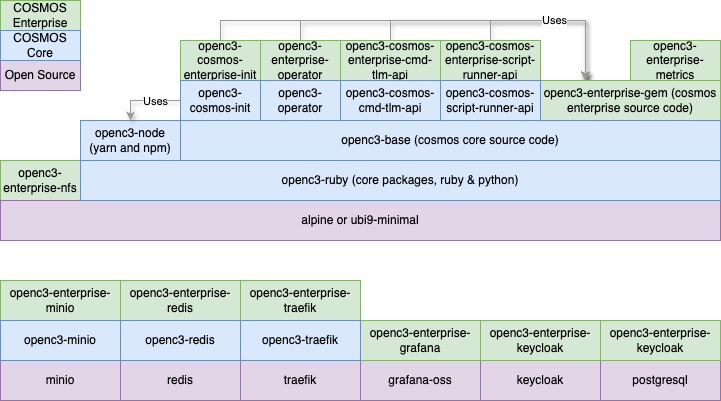
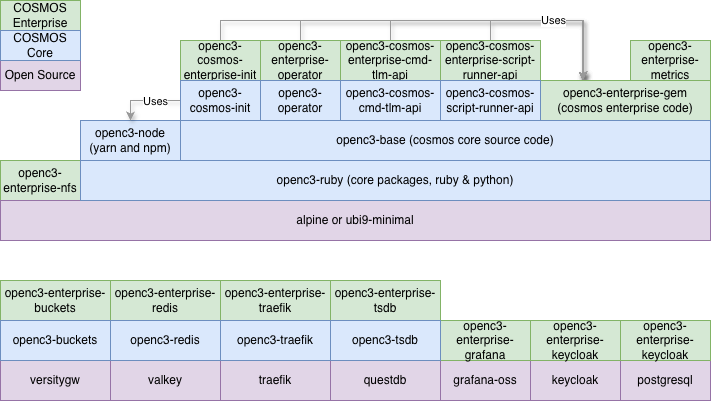
Add new architecture page

diff --git a/docs.openc3.com/docusaurus-plugin.config.js b/docs.openc3.com/docusaurus-plugin.config.js
@@ -135,6 +135,10 @@ const config = {
           { to: "/docs/meta/contributing", from: "/docs/v5/contributing" },
           { to: "/docs/meta/philosophy", from: "/docs/v5/philosophy" },
           { to: "/docs/meta/xtce", from: "/docs/v5/xtce" },
+          {
+            to: "/docs/getting-started/architecture",
+            from: "/docs/getting-started/key-concepts",
+          },
         ],
       },
     ],

diff --git a/docs.openc3.com/docusaurus.config.js b/docs.openc3.com/docusaurus.config.js
@@ -135,6 +135,10 @@ const config = {
           { to: "/docs/meta/contributing", from: "/docs/v5/contributing" },
           { to: "/docs/meta/philosophy", from: "/docs/v5/philosophy" },
           { to: "/docs/meta/xtce", from: "/docs/v5/xtce" },
+          {
+            to: "/docs/getting-started/architecture",
+            from: "/docs/getting-started/key-concepts",
+          },
         ],
       },
     ],

diff --git a/docs.openc3.com/docs/getting-started/architecture.md b/docs.openc3.com/docs/getting-started/architecture.md
@@ -1,12 +1,42 @@
 ---
 sidebar_position: 1
-title: Key Concepts
-description: Projects, Containerization, Frontend, Backend
+title: Architecture
+description: Architecture, Projects, Containerization, Frontend, Backend
 sidebar_custom_props:
-  myEmoji: 💡
+  myEmoji: 🏗
 ---
 
-# OpenC3 COSMOS Key Concepts
+# OpenC3 COSMOS Architecture
+
+## COSMOS Core Architecture
+
+![COSMOS Core Architecture](/img/core-architecture.png)
+
+COSMOS Core is a cloud native, containerized, microservice oriented command and control system deployed with Docker Compose. The **init** container seeds the initial configuration and plugin data into the system on startup. The **operator** manages the lifecycle of all COSMOS microservices including interfaces that connect to external embedded systems (Targets). Two Rails-based APIs power the system: **cmd-tlm-api** provides the REST API for command and telemetry operations, while **script-runner-api** handles script execution. The **traefik** reverse proxy routes all user browser traffic to the appropriate API. Two **Valkey** (Redis) data stores are used: **redis** holds persistent configuration and the current value table, while **redis-ephemeral** handles real-time data streams. The **buckets** service provides S3-compatible object storage (powered by Versitygw) for plugins, targets, configuration data, text logs, and binary logs of all raw data. The time-series database (**tsdb**), powered by [QuestDB](https://questdb.io/), stores all decommutated command and telemetry data for fast historical queries.
+
+## COSMOS Enterprise Architecture
+
+![COSMOS Enterprise Architecture](/img/enterprise-architecture.png)
+
+COSMOS Enterprise extends Core with additional services and is optionally deployed on a Kubernetes cluster using **Helm** charts as shown above. The core services (cmd-tlm-api, script-runner-api, traefik, init, operator) remain the same and are deployed by the **openc3** chart. Data services (tsdb, buckets, redis, redis-ephemeral) are deployed by a separate **openc3-db** chart. Enterprise adds **Keycloak** for full identity and access management with role-based permissions, backed by a **PostgreSQL** database. A **Grafana** instance and **metrics** collector provide system monitoring and observability dashboards. The **COSMOS NFS** chart provides shared network file storage across the cluster. All services are orchestrated by Kubernetes, enabling horizontal scaling, high availability, and production-grade deployment.
+
+## Terminology
+
+| Term                                        | Definition                                                                                                                                                                                                                        |
+| ------------------------------------------- | --------------------------------------------------------------------------------------------------------------------------------------------------------------------------------------------------------------------------------- |
+| [Target](/docs/configuration/target)        | A COSMOS target is an embedded system that the COSMOS Command and Telemetry Server connects to using an interface in order to send commands to and/or receive telemetry from.                                                     |
+| [Command](/docs/configuration/command)      | A packet of information telling a target to perform an action of some sort.                                                                                                                                                       |
+| [Telemetry](/docs/configuration/telemetry)  | A packet of information providing status from a target.                                                                                                                                                                           |
+| [Interface](/docs/configuration/interfaces) | A physical connection to a target that sends commands to and/or receives telemetry from a target. COSMOS comes with interfaces that support TCP/IP, UDP, and serial connections. Custom interfaces are easy to add to the system. |
+| [Configuration Files](/docs/configuration)  | COSMOS uses simple plain text configuration files to define commands and telemetry packets, and to configure each COSMOS application. These files are easily human readable/editable and machine readable/editable.               |
+| [Tool](/docs/tools)                         | Another name for a COSMOS application.                                                                                                                                                                                            |
+
+Key aspects of this architecture:
+
+- COSMOS can connect to many different kinds of targets. The examples include things like Flight software (FSW), Ground Support Equipment (GSE), Labview, and COTS targets such as an Agilent power supply. Any embedded system that provides a communication interface can be connected to COSMOS. The flexibility of [interfaces](/docs/configuration/interfaces), [protocols](/docs/configuration/protocols), and [accessors](/docs/configuration/accessors) mean we adapt to your hardware, not the other way around!
+- All realtime communication with targets flows through the COSMOS system. This ensures all commands and telemetry are logged.
+- Every tool is configured with plain text configuration files.
+- Program specific tools can be written using the COSMOS libraries that can interact with the realtime command and telemetry streams and can process logged data.
 
 ## Projects
 
@@ -38,6 +68,7 @@ The COSMOS Core containers consist of the following:
 | cosmos-openc3-buckets-1                  | Provides a S3 like bucket storage interface and also serves as a static webserver for the tool files  |
 | cosmos-openc3-redis-1                    | Serves the static target configuration and Current Value Table                                        |
 | cosmos-openc3-redis-ephemeral-1          | Serves the [streams](https://valkey.io/topics/streams-intro/) containing the raw and decomutated data |
+| cosmos-openc3-tsdb-1                     | [QuestDB](https://questdb.io/) time-series database for long-term storage of decommutated data       |
 
 The container list for [COSMOS Enterprise](https://openc3.com/enterprise) consists of the following:
 
@@ -85,7 +116,7 @@ Per [AstroUXDS](https://www.astrouxds.com/), "The Astro Space UX Design System e
 
 ### Valkey
 
-[Valkey](https://valkey.io/) is an in-memory data store with support for strings, hashes, lists, sets, sorted sets, streams, and more. COSMOS uses Valkey to store both our configuration and data. If you look back at our [container list](/docs/getting-started/key-concepts#containers) you'll notice two valkey containers: cosmos-openc3-redis-1 and cosmos-openc3-redis-ephemeral-1 (still named Redis after the original). The ephemeral container contains all the real-time data pushed into [streams](https://valkey.io/topics/streams-intro/). The other container contains COSMOS configuration that is meant to persist. [COSMOS Enterprise](https://openc3.com/enterprise) provides helm charts that setup [Valkey Cluster](https://valkey.io/topics/cluster-tutorial/) to perform horizontal scaling where data is shared across multiple nodes.
+[Valkey](https://valkey.io/) is an in-memory data store with support for strings, hashes, lists, sets, sorted sets, streams, and more. COSMOS uses Valkey to store both our configuration and data. If you look back at our [container list](/docs/getting-started/architecture#containers) you'll notice two valkey containers: cosmos-openc3-redis-1 and cosmos-openc3-redis-ephemeral-1 (still named Redis after the original). The ephemeral container contains all the real-time data pushed into [streams](https://valkey.io/topics/streams-intro/). The other container contains COSMOS configuration that is meant to persist. [COSMOS Enterprise](https://openc3.com/enterprise) provides helm charts that setup [Valkey Cluster](https://valkey.io/topics/cluster-tutorial/) to perform horizontal scaling where data is shared across multiple nodes.
 
 ### Versitygw
 
@@ -97,9 +128,50 @@ The COSMOS API and Script Runner backends are powered by [Ruby on Rails](https:/
 
 ### QuestDB
 
-COSMOS uses [QuestDB](https://questdb.io/) as its time-series database (TSDB) for long-term telemetry storage. QuestDB is a high-performance database optimized for time-series data, offering fast ingestion rates and efficient querying of large datasets.
+COSMOS uses [QuestDB](https://questdb.io/) as its time-series database (TSDB) for long-term telemetry storage. QuestDB is a high-performance database optimized for time-series data, offering fast ingestion rates and efficient querying of large datasets. Data is ingested into QuestDB via the [ILP HTTP protocol](https://questdb.io/docs/reference/api/ilp/overview/).
 
-While Redis stores real-time streaming data and the current value table, QuestDB provides persistent storage for historical telemetry. This enables users to query telemetry data over extended time periods using standard SQL syntax.
+While Valkey stores real-time streaming data and the current value table, QuestDB provides persistent storage for historical telemetry. This enables users to query telemetry data over extended time periods using standard SQL syntax. Each telemetry and command packet gets its own QuestDB table using the naming convention `TLM__TARGET__PACKET` or `CMD__TARGET__PACKET`.
+
+#### Data Type Mapping
+
+COSMOS maps its data types to QuestDB column types as follows:
+
+| COSMOS Type | Bit Size    | QuestDB Type   | Notes                                                   |
+| ----------- | ----------- | -------------- | ------------------------------------------------------- |
+| INT         | < 32        | int            | Small signed integers and bitfields                     |
+| INT         | 32          | long           | Promoted to long (QuestDB uses int MIN as NULL)         |
+| INT         | 64          | DECIMAL(20, 0) | Full 64-bit signed range                                |
+| UINT        | < 32        | int            | Fits in signed int                                      |
+| UINT        | 32          | long           | Needs 33 bits for full unsigned range                   |
+| UINT        | 64          | DECIMAL(20, 0) | Full 64-bit unsigned range                              |
+| FLOAT       | 32          | float          | IEEE 754 single precision                               |
+| FLOAT       | 64          | double         | IEEE 754 double precision                               |
+| STRING      | var         | varchar        | Variable-length text                                    |
+| BLOCK       | var         | varchar        | Base64-encoded binary                                   |
+| ARRAY       | var         | varchar        | JSON-serialized arrays                                  |
+| DERIVED     | var         | varies         | Based on converted_type/bit_size; defaults to varchar   |
+
+#### Special Float Value Handling
+
+QuestDB does not support IEEE 754 special values directly. The following sentinel values are used:
+
+| Special Value | 64-bit (double) Sentinel                               | 32-bit (float) Sentinel                      |
+| ------------- | ------------------------------------------------------ | -------------------------------------------- |
+| `Infinity`    | `1.7976931348623155e+308` (near `DBL_MAX`)             | `3.4028233e+38` (near `FLT_MAX`)             |
+| `-Infinity`   | `-1.7976931348623155e+308` (near `-DBL_MAX`)           | `-3.4028233e+38` (near `-FLT_MAX`)           |
+| `NaN`         | `-1.7976931348623153e+308` (negative, near `-DBL_MAX`) | `-3.4028231e+38` (negative, near `-FLT_MAX`) |
+
+These sentinels allow special float values to be stored and retrieved without data loss.
+
+#### Other Limitations
+
+- Integer `MIN_VALUE` is used as NULL sentinel in QuestDB
+- Arrays are always stored as JSON-serialized strings for consistency
+- 64-bit integer values are sent as strings via ILP; QuestDB casts them to DECIMAL
+
+#### Historical Data Migration
+
+COSMOS provides a [migration plugin](https://store.openc3.com/cosmos_plugins/21) for ingesting historical decommutated telemetry and command data from binary log files into QuestDB. The plugin reads COSMOS binary packet log files (`.bin` and `.bin.gz`) from S3-compatible storage and batch-ingests the data into QuestDB. It processes files in reverse chronological order (newest first) and rate-limits ingestion to avoid overwhelming operational systems.
 
 ### Keycloak (Enterprise)
 

diff --git a/docs.openc3.com/docs/getting-started/upgrading.md b/docs.openc3.com/docs/getting-started/upgrading.md
@@ -115,12 +115,12 @@ The following table identifies key release milestones which changed the COSMOS p
 
 Versions 5.13.0 and 6.0.0 _REQUIRE_ a stop to evaluate the upgrade. Thus if you're currently at 5.9.0 you must first upgrade to 5.13.0, then 6.0.0, then to the latest.
 
-| Version                                                             | Summary                                                                                                                                                                                                                                                                                                                                                                                                                                                                                                                                                                                                                                                                                                                                                                  |
-| :------------------------------------------------------------------ | :----------------------------------------------------------------------------------------------------------------------------------------------------------------------------------------------------------------------------------------------------------------------------------------------------------------------------------------------------------------------------------------------------------------------------------------------------------------------------------------------------------------------------------------------------------------------------------------------------------------------------------------------------------------------------------------------------------------------------------------------------------------------- |
-| \*[5.13.0](https://github.com/OpenC3/cosmos/releases/tag/v5.13.0)\* | Breaking change to non-root containers and renamed minio volume. Requires running the [Core migration shell script](https://github.com/OpenC3/cosmos-project/blob/v5.13.0.0/migrate_5_12_to_5_13.sh) / [Core migration batch file](https://github.com/OpenC3/cosmos-project/blob/v5.13.0.0/migrate_5_12_to_5_13.bat) or [Enterprise migration shell script](https://github.com/OpenC3/cosmos-enterprise-project/blob/v5.13.0.0/migrate_5_12_to_5_13_enterprise.sh) / [Enterprise migration batch file](https://github.com/OpenC3/cosmos-enterprise-project/blob/v5.13.0.0/migrate_5_12_to_5_13_enterprise.bat) to preserve previous data.<br/><br/>NOTE: Read the script! The You must set `GITHUB_PAT` in Enterprise or simply comment out the lines with `GITHUB_PAT`. |
-| [5.15.0](https://github.com/OpenC3/cosmos/releases/tag/v5.15.0)     | The internal Traefik port was changed to 2900 to match our standard external port and to better support unprivileged runtime environments.                                                                                                                                                                                                                                                                                                                                                                                                                                                                                                                                                                                                                               |
-| \*[6.0.0](https://github.com/OpenC3/cosmos/releases/tag/v6.0.0)\*   | Upgrade to Vue 3 and Vuetify 3 requires custom GUI tools to follow the [COSMOS 6 migration guide](upgrading#migrating-from-cosmos-5-to-cosmos-6).                                                                                                                                                                                                                                                                                                                                                                                                                                                                                                                                                                                                                        |
-| [6.1.0](https://github.com/OpenC3/cosmos/releases/tag/v6.1.0)       | Changed from ActionCable to AnyCable. We also broke apart the COSMOS helm charts from a single chart to 3 charts.                                                                                                                                                                                                                                                                                                                                                                                                                                                                                                                                                                                                                                                        |
+| Version                                                             | Summary                                                                                                                                                                                                                                                                                                                                                                                                                                                                                                                                                                                                                                                                                                                                                                   |
+| :------------------------------------------------------------------ | :------------------------------------------------------------------------------------------------------------------------------------------------------------------------------------------------------------------------------------------------------------------------------------------------------------------------------------------------------------------------------------------------------------------------------------------------------------------------------------------------------------------------------------------------------------------------------------------------------------------------------------------------------------------------------------------------------------------------------------------------------------------------ |
+| \*[5.13.0](https://github.com/OpenC3/cosmos/releases/tag/v5.13.0)\* | Breaking change to non-root containers and renamed bucket volume. Requires running the [Core migration shell script](https://github.com/OpenC3/cosmos-project/blob/v5.13.0.0/migrate_5_12_to_5_13.sh) / [Core migration batch file](https://github.com/OpenC3/cosmos-project/blob/v5.13.0.0/migrate_5_12_to_5_13.bat) or [Enterprise migration shell script](https://github.com/OpenC3/cosmos-enterprise-project/blob/v5.13.0.0/migrate_5_12_to_5_13_enterprise.sh) / [Enterprise migration batch file](https://github.com/OpenC3/cosmos-enterprise-project/blob/v5.13.0.0/migrate_5_12_to_5_13_enterprise.bat) to preserve previous data.<br/><br/>NOTE: Read the script! The You must set `GITHUB_PAT` in Enterprise or simply comment out the lines with `GITHUB_PAT`. |
+| [5.15.0](https://github.com/OpenC3/cosmos/releases/tag/v5.15.0)     | The internal Traefik port was changed to 2900 to match our standard external port and to better support unprivileged runtime environments.                                                                                                                                                                                                                                                                                                                                                                                                                                                                                                                                                                                                                                |
+| \*[6.0.0](https://github.com/OpenC3/cosmos/releases/tag/v6.0.0)\*   | Upgrade to Vue 3 and Vuetify 3 requires custom GUI tools to follow the [COSMOS 6 migration guide](upgrading#migrating-from-cosmos-5-to-cosmos-6).                                                                                                                                                                                                                                                                                                                                                                                                                                                                                                                                                                                                                         |
+| [6.1.0](https://github.com/OpenC3/cosmos/releases/tag/v6.1.0)       | Changed from ActionCable to AnyCable. We also broke apart the COSMOS helm charts from a single chart to 3 charts.                                                                                                                                                                                                                                                                                                                                                                                                                                                                                                                                                                                                                                                         |
 
 :::warning Downgrades
 Downgrades are not necessarily supported. When upgrading COSMOS we need to upgrade databases and sometimes migrate internal data structures. While we perform a full regression test on every release, we recommend upgrading an individual machine with your specific plugins and do local testing before rolling out the upgrade to your production system.
@@ -198,7 +198,7 @@ Second, the JSON API no longer accepts plaintext passwords. You must instead use
 
 ### MINIO to Versitygw Migration
 
-COSMOS 7 replaces MINIO with [Versity Gateway (versitygw)](https://github.com/versity/versitygw) as the S3-compatible storage backend. Versitygw uses a POSIX filesystem backend rather than MINIO's internal object format, so existing data must be migrated via the S3 API. A migration script is provided at [`scripts/linux/openc3_migrate_s3.sh`](https://github.com/OpenC3/cosmos/blob/main/scripts/linux/openc3_migrate_s3.sh) that handles this automatically. The script runs the MINIO client (`mc`) via Docker, so no local installation is required.
+COSMOS 7 uses [Versity Gateway (versitygw)](https://github.com/versity/versitygw) as the S3-compatible storage backend. Versitygw uses a POSIX filesystem backend rather than MINIO's internal object format, so existing data must be migrated via the S3 API. A migration script is provided at [`scripts/linux/openc3_migrate_s3.sh`](https://github.com/OpenC3/cosmos/blob/main/scripts/linux/openc3_migrate_s3.sh) that handles this automatically. The script runs the MINIO client (`mc`) via Docker, so no local installation is required.
 
 #### Migration Script Commands
 
@@ -252,7 +252,7 @@ Stop COSMOS 6 first, then migrate after upgrading:
 ./openc3.sh upgrade v7.0.0
 ./openc3.sh run
 
-# 3. Migrate all data from old MINIO volume to the running versitygw
+# 3. Migrate all data from old COSMOS 6 MINIO volume to the running versitygw
 ./scripts/linux/openc3_migrate_s3.sh migrate
 
 # 4. Verify your data migrated correctly
@@ -287,7 +287,7 @@ OPENC3_BUCKET_USERNAME=your_user OPENC3_BUCKET_PASSWORD=your_pass ./scripts/linu
 The migration script automatically detects Docker Compose project prefixes. For example, if your volumes are named `cosmos_openc3-bucket-v` instead of `openc3-bucket-v`, the script handles this without additional configuration. You can also specify custom volume names with the `OLD_VOLUME` and `NEW_VOLUME` environment variables.
 :::
 
-After verifying COSMOS 7 works correctly, you can remove the old MINIO volume:
+After verifying COSMOS 7 works correctly, you can remove the old COSMOS 6 MINIO volume:
 
 ```bash
 docker volume rm openc3-bucket-v

diff --git a/docs.openc3.com/docs/getting-started/requirements.md b/docs.openc3.com/docs/getting-started/requirements.md
@@ -27,37 +27,7 @@ COSMOS is currently made up of the following applications:
 
 More detailed descriptions, requirements, and design for each tool are found later in this document. Additionally, each of the above applications is built using COSMOS libraries that are available for use as a framework to develop custom program/project applications.
 
-## Terminology
-
-The COSMOS system uses several terms that are important to understand. The following table defines these terms.
-
-| Term                | Definition                                                                                                                                                                                                              |
-| ------------------- | ----------------------------------------------------------------------------------------------------------------------------------------------------------------------------------------------------------------------- |
-| Target              | A COSMOS target is an embedded system that the COSMOS Command and Telemetry Server connects to using an interface in order to send commands to and/or receive telemetry from.                                           |
-| Command             | A packet of information telling a target to perform an action of some sort.                                                                                                                                             |
-| Telemetry Packet    | A packet of information providing status from a target.                                                                                                                                                                 |
-| Interface           | A Ruby class that knows how to send commands to and/or receive telemetry from a target. COSMOS comes with interfaces that support TCP/IP, UDP, and serial connections. Custom interfaces are easy to add to the system. |
-| Ruby                | The powerful dynamic programming language used to write the COSMOS applications and libraries as well as COSMOS scripts and test procedures.                                                                            |
-| Configuration Files | COSMOS uses simple plain text configuration files to define commands and telemetry packets, and to configure each COSMOS application. These files are easily human readable/editable and machine readable/editable.     |
-| Packet Log Files    | Binary files containing either logged commands or telemetry packets.                                                                                                                                                    |
-| Message Log Files   | Text files containing messages generated by the system.                                                                                                                                                                 |
-| Tool                | Another name for a COSMOS application.                                                                                                                                                                                  |
-
-## Overall Architecture and Context Diagram
-
-The following diagram shows the current COSMOS architecture.
-
-![COSMOS Architecture](/img/architecture.png)
-
-Key aspects of this architecture:
-
-Starting with the release of version 5, COSMOS is a cloud native, containerized, microservice oriented command and control system. All the COSMOS microservices are docker containers which is why Docker is shown containing the entire COSMOS system. The green boxes on the left represent external embedded systems (Targets) which COSMOS connects to. The Redis data store contains the configuration for all the microservices, the current value table, as well as data streams containing decommutated data. The bucket data store contains plugins, targets, configuration data, text logs as well as binary logs of all the raw and decommutated data. Users interact with COSMOS from a web browser which routes through the internal Traefik load balancer.
-
-- COSMOS can connect to many different kinds of targets. The examples include things like Flight software (FSW), Ground Support Equipment (GSE), Labview, and COTS targets such as an Agilent power supply. Any embedded system that provides a communication interface can be connected to COSMOS.
-- COSMOS ships with interfaces for connecting over TCP/IP, UDP, MQTT, and serial connections. This covers most systems, but custom interfaces can also be written to connect to anything.
-- All realtime communication with targets flows through the COSMOS system. This ensures all commands and telemetry are logged.
-- Every tool is configured with plain text configuration files.
-- Program specific tools can be written using the COSMOS libraries that can interact with the realtime command and telemetry streams and can process logged data.
+For architecture details including terminology, see the [Architecture](/docs/getting-started/architecture) page.
 
 ## Overall Requirements
 

diff --git a/docs.openc3.com/docs/guides/performance.md b/docs.openc3.com/docs/guides/performance.md
@@ -47,7 +47,7 @@ Performance characterization was performed in Azure on a Standard D4s v5 (4 vcpu
 | cosmos-enterprise-project-openc3-metrics-1                  | 0.01%         | 0.00%        | 105.2MiB    | 83.87MiB   |
 | cosmos-enterprise-project-openc3-redis-ephemeral-1          | 4.05%         | 1.89%        | 46.22MiB    | 69.84MiB   |
 | cosmos-enterprise-project-openc3-redis-1                    | 1.56%         | 0.72%        | 12.82MiB    | 9.484MiB   |
-| cosmos-enterprise-project-openc3-minio-1                    | 0.01%         | 0.00%        | 152.9MiB    | 169.8MiB   |
+| cosmos-enterprise-project-openc3-buckets-1                  | 0.01%         | 0.00%        | 152.9MiB    | 169.8MiB   |
 | cosmos-enterprise-project-openc3-postgresql-1               | 0.00%         | 0.39%        | 37.33MiB    | 41.02MiB   |
 
 - memory profiles are similar between the two platforms
@@ -74,7 +74,7 @@ The larger packets and data rate of the LoadSim target caused both platforms to 
 | cosmos-enterprise-project-openc3-metrics-1                  | 0.01%         | 0.01%        | 106.3MiB    | 84.87MiB   |
 | cosmos-enterprise-project-openc3-redis-ephemeral-1          | 19.63%        | 3.91%        | 333.8MiB    | 370.8MiB   |
 | cosmos-enterprise-project-openc3-redis-1                    | 7.42%         | 1.49%        | 15.87MiB    | 11.81MiB   |
-| cosmos-enterprise-project-openc3-minio-1                    | 0.10%         | 0.02%        | 167.8MiB    | 179.2MiB   |
+| cosmos-enterprise-project-openc3-buckets-1                  | 0.10%         | 0.02%        | 167.8MiB    | 179.2MiB   |
 | cosmos-enterprise-project-openc3-postgresql-1               | 0.00%         | 0.00%        | 35.4MiB     | 42.93MiB   |
 
 - memory profiles are similar between the two platforms

diff --git a/docs.openc3.com/docs/guides/logging.md b/docs.openc3.com/docs/guides/logging.md
@@ -9,11 +9,15 @@ The COSMOS [Bucket Explorer](../tools/bucket-explorer.md) tool provides a way to
 
 ![Bucket Explorer](/img/guides/logging/logs.png)
 
-Note the config and logs buckets are organized by scopes of which there initially is just one: DEFAULT. Clicking the DEFAULT folder in the logs bucket shows the decom_logs, raw_logs, text_logs and tool_logs.
+Note the config and logs buckets are organized by scopes of which there initially is just one: DEFAULT. Clicking the DEFAULT folder in the logs bucket shows the raw_logs, text_logs and tool_logs.
 
-### decom_logs & raw_logs
+:::info COSMOS 5 & 6
+In COSMOS 5 and 6, the logs bucket also contained a decom_logs folder with decommutated command and telemetry data stored as JSON in binary log files. Starting in COSMOS 7, decommutated data is stored in the time-series database (TSDB), [QuestDB](https://questdb.io/), instead of log files. This provides more efficient storage and faster historical queries. If you are upgrading from COSMOS 5 or 6, see the [Upgrading](../getting-started/upgrading.md) guide for migration details.
+:::
 
-The decom_logs and raw_logs folders contain the decommutated and raw command and telemetry data. Both are further broken down by target, packet, then date. For example, browsing into the DEFAULT/raw_logs/tlm/INST2/&lt;YYYYMMDD&gt;/ directory:
+### raw_logs
+
+The raw_logs folder contains raw command and telemetry binary data. It is further broken down by target, packet, then date. For example, browsing into the DEFAULT/raw_logs/tlm/INST2/&lt;YYYYMMDD&gt;/ directory:
 
 ![raw_tlm_logs](/img/guides/logging/raw_tlm_logs.png)
 

diff --git a/docs.openc3.com/docs/introduction.md b/docs.openc3.com/docs/introduction.md
@@ -10,13 +10,9 @@ This site aims to be a comprehensive guide to OpenC3 COSMOS. We'll cover topics 
 
 COSMOS is a suite of applications that can be used to control a set of embedded systems. These systems can be anything from test equipment (power supplies, oscilloscopes, switched power strips, UPS devices, etc), to development boards (Arduinos, Raspberry Pi, Beaglebone, etc), to satellites.
 
-### COSMOS Architecture
+![COSMOS Clean Room](/img/cosmos-cleanroom.png)
 
-![COSMOS Architecture](/img/architecture.png)
-
-COSMOS is a cloud native, containerized, microservice oriented command and control system. All the COSMOS microservices are docker containers which is why Docker is shown containing the entire COSMOS system. The green boxes on the left represent external embedded systems (Targets) which COSMOS connects to. The Redis data store contains the configuration for all the microservices, the current value table, as well as data streams containing decommutated data. The bucket data store contains plugins, targets, configuration data, text logs as well as binary logs of all the raw and decommutated data. Users interact with COSMOS from a web browser which routes through the internal Traefik load balancer.
-
-Keep reading for an in-depth discussion of each of the COSMOS Tools.
+COSMOS is a cloud native, containerized, microservice oriented command and control system. See the [Architecture](/docs/getting-started/architecture) page for a detailed breakdown of both the Core and Enterprise architectures.
 
 ## Helpful Hints
 

diff --git a/openc3-buckets/README.md b/openc3-buckets/README.md
@@ -1,6 +1,6 @@
 # OpenC3 S3 Gateway (versitygw)
 
-This directory contains the Dockerfile and configuration for the versitygw S3 gateway, which replaces MINIO as the S3-compatible storage backend in COSMOS 7+.
+This directory contains the Dockerfile and configuration for the versitygw S3 gateway used as the S3-compatible storage backend in COSMOS 7+.
 
 ## About versitygw
 
@@ -22,7 +22,7 @@ The container downloads pre-built binaries from [versitygw GitHub releases](http
 | `VGW_BACKEND`     | Storage backend type              | `posix` |
 | `VGW_BACKEND_ARG` | Backend argument (path for posix) | `/data` |
 
-For compatibility, the entrypoint also accepts MINIO-style credentials:
+For compatibility, the entrypoint also accepts legacy credentials:
 
 - `MINIO_ROOT_USER` (mapped to `ROOT_ACCESS_KEY`)
 - `MINIO_ROOT_PASSWORD` (mapped to `ROOT_SECRET_KEY`)
@@ -69,7 +69,7 @@ Stop COSMOS 6 first, then migrate after upgrading:
 ./openc3.sh upgrade v7.0.0
 ./openc3.sh run
 
-# 3. Migrate all data from old MINIO volume to running versitygw
+# 3. Migrate all data from old COSMOS 6 MINIO volume to running versitygw
 ./scripts/linux/openc3_migrate_s3.sh migrate
 
 # 4. Verify your data migrated correctly

diff --git a/docs.openc3.com/docs/configuration/_telemetry.md b/docs.openc3.com/docs/configuration/_telemetry.md
@@ -10,7 +10,7 @@ sidebar_custom_props:
 
 ## Telemetry Concepts
 
-When COSMOS receives a telemetry packet from a target, the system will log the raw packet, decommutate it to engineering values, and log the decommutated data. This data is stored in log files and in Redis, and it is made available via the CmdTlmApi Server:
+When COSMOS receives a telemetry packet from a target, the system will log the raw packet to a binary log file, decommutate it to engineering values, and write the decommutated data to the time-series database (TSDB), [QuestDB](https://questdb.io/). The raw binary logs are stored in S3-compatible bucket storage while the decommutated data is stored in QuestDB for fast time-series queries. Both raw and decommutated data are also streamed through Valkey (Redis) for real-time access. All data is made available via the CmdTlmApi Server:
 
 ![Telemetry Processing Diagram](/img/tlm-processing.png)
 

diff --git a/docs.openc3.com/docs/configuration/telemetry.md b/docs.openc3.com/docs/configuration/telemetry.md
@@ -10,7 +10,7 @@ sidebar_custom_props:
 
 ## Telemetry Concepts
 
-When COSMOS receives a telemetry packet from a target, the system will log the raw packet, decommutate it to engineering values, and log the decommutated data. This data is stored in log files and in Redis, and it is made available via the CmdTlmApi Server:
+When COSMOS receives a telemetry packet from a target, the system will log the raw packet to a binary log file, decommutate it to engineering values, and write the decommutated data to the time-series database (TSDB), [QuestDB](https://questdb.io/). The raw binary logs are stored in S3-compatible bucket storage while the decommutated data is stored in QuestDB for fast time-series queries. Both raw and decommutated data are also streamed through Valkey (Redis) for real-time access. All data is made available via the CmdTlmApi Server:
 
 ![Telemetry Processing Diagram](/img/tlm-processing.png)
 

diff --git a/docs.openc3.com/docs/development/log-structure.md b/docs.openc3.com/docs/development/log-structure.md
@@ -7,7 +7,7 @@ sidebar_custom_props:
 
 ## Packet Log File Format
 
-Packet logs in OpenC3 COSMOS 5 & 6 are used to store raw binary packets as received from various targets, as well as decommutated packets stored as JSON structures.
+In COSMOS 5 and 6, packet log files were used to store both raw binary packets as received from various targets and decommutated packets stored as JSON structures. Starting in COSMOS 7, decommutated data is no longer written to log files. Instead, it is stored directly in the time-series database (TSDB), [QuestDB](https://questdb.io/), which provides more efficient storage and faster historical queries. Packet log files in COSMOS 7 only contain raw binary packet data. The log file format itself remains unchanged for backwards compatibility, but the JSON/CBOR Packet and Key Map entry types are no longer written by COSMOS 7.
 
 ### File Header
 
